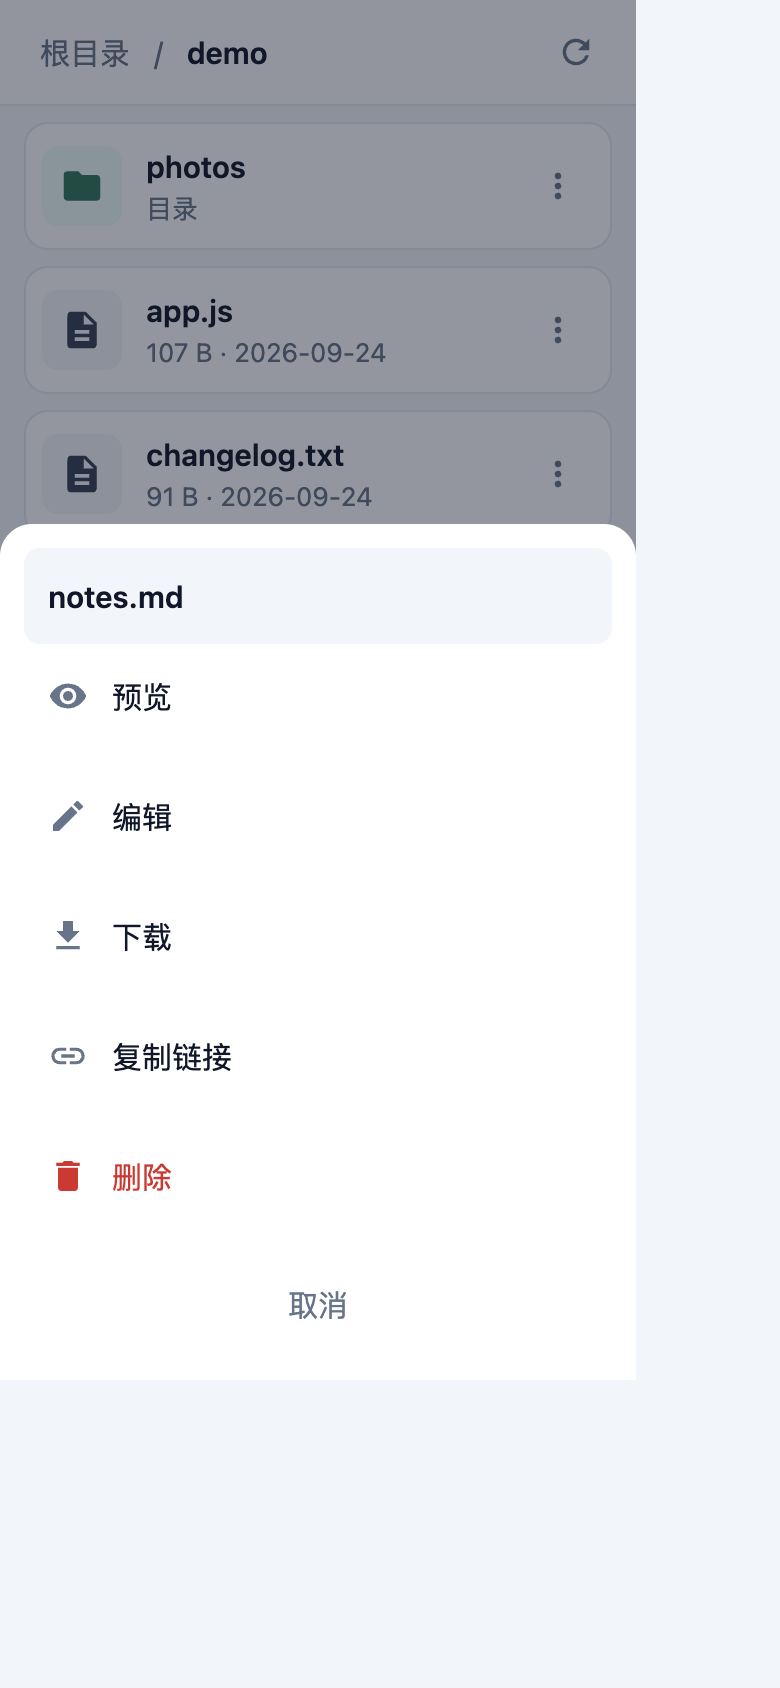
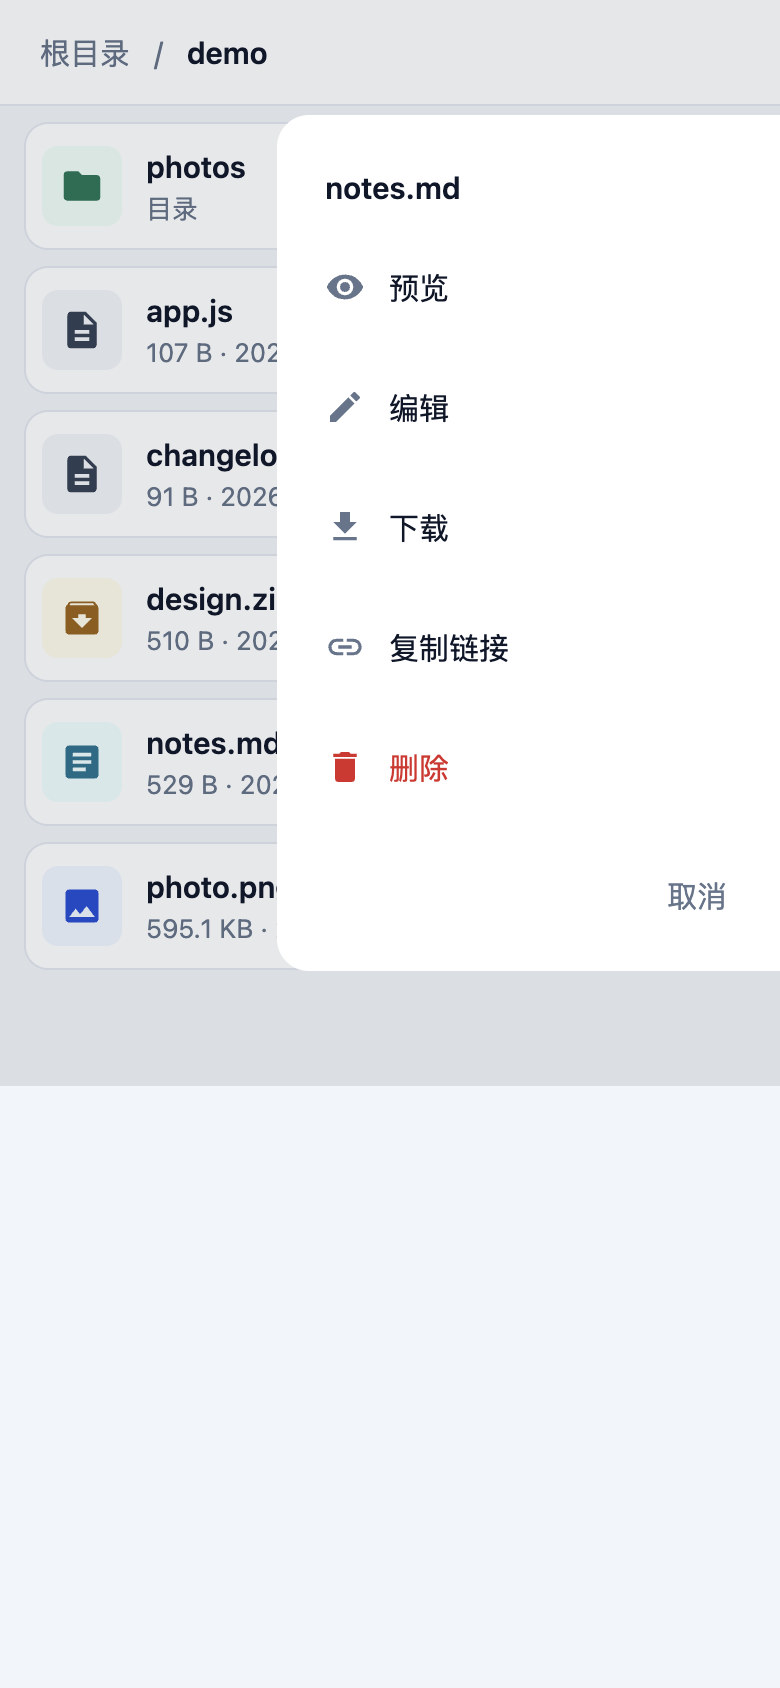
docs: 截图 7 张减到 3 张，只留手机满幅的那三张
- 删掉桌面端三张：内容列 760px 居中在 1000px 画布里，Markdown 那面又因为
  .md 的 max-width: 600px，右侧留一大片空白，观感就是「右边全是白的」。
- 删掉那一整张为讲提示条而拍的全屏截图：进度 + 取消的重要程度本来就低，
  不值得占一块版面，功能表里已经写了。
- 留下的三张都是手机满幅（390×844）：目录列表 / 长按操作面板 / 编辑器内「查看」，
  显示宽度 240 → 220。docs/screenshots 体积 645KB → 244KB，请求数 7 → 3。
- 记一笔：这类扁平色块 UI 用 sips 转 JPEG 反而更大（56KB→78KB），继续用 PNG。

diff --git a/README.md b/README.md
@@ -12,24 +12,14 @@
 
 ## 界面
 
-<p align="center">
-  <img src="docs/screenshots/browse-mobile.png" width="240" alt="手机端目录列表">
-  <img src="docs/screenshots/actions-mobile.png" width="240" alt="长按弹出的操作面板">
-  <img src="docs/screenshots/editor-preview-mobile.png" width="240" alt="编辑器里直接查看 Markdown 渲染效果">
-</p>
-<p align="center"><sub>目录列表 · 长按弹出的操作面板 · 编辑器里的「查看」</sub></p>
+移动优先：手机浏览器上就是一套文件管理 App；桌面端是同一套页面，内容窄栏居中，预览 / 编辑改成右侧抽屉。
 
 <p align="center">
-  <img src="docs/screenshots/browse-desktop.png" width="410" alt="桌面端目录列表">
-  <img src="docs/screenshots/preview-markdown-desktop.png" width="410" alt="Markdown 预览，含表格、代码块与 mermaid 流程图">
+  <img src="docs/screenshots/browse-mobile.png" width="220" alt="目录列表：目录优先，图标按类型着色">
+  <img src="docs/screenshots/actions-mobile.png" width="220" alt="长按弹出的操作面板">
+  <img src="docs/screenshots/editor-preview-mobile.png" width="220" alt="在编辑器里直接查看 Markdown 渲染效果">
 </p>
-<p align="center"><sub>桌面端：列表 · Markdown 预览（表格 / 代码块 / mermaid 都会画）</sub></p>
-
-<p align="center">
-  <img src="docs/screenshots/preview-image-desktop.jpg" width="410" alt="图片预览">
-  <img src="docs/screenshots/archive-progress-mobile.png" width="240" alt="打包解压的进度提示，可取消">
-</p>
-<p align="center"><sub>图片预览 · 长任务的进度与取消</sub></p>
+<p align="center"><sub>目录列表 · 长按弹出操作面板 · 编辑器里直接「查看」渲染效果（表格、代码块、mermaid 都会画）</sub></p>
 
 ## 功能
 
